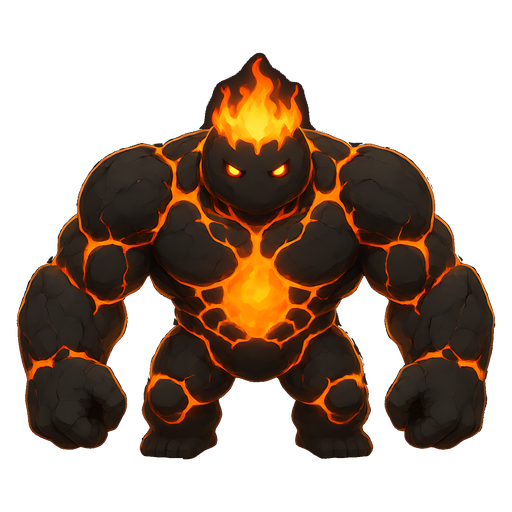
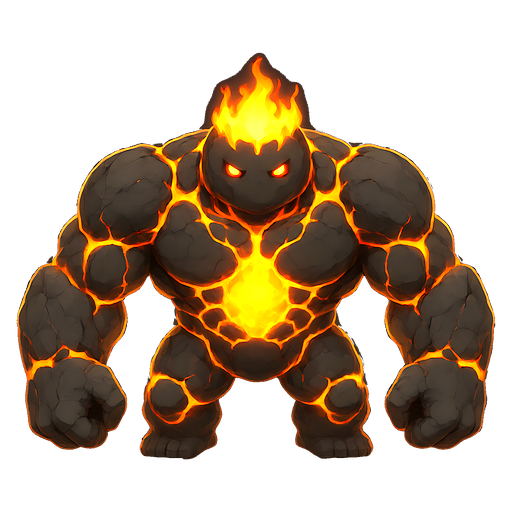
提亮熔岩巨像原图

diff --git a/game.js b/game.js
@@ -1149,7 +1149,7 @@
       : new THREE.MeshBasicMaterial({ color: 0x8a7b86 });
   }
   const magmaColossusTex = typeof THREE.TextureLoader === 'function'
-    ? new THREE.TextureLoader().load('assets/magma-colossus.png?v=20261117')
+    ? new THREE.TextureLoader().load('assets/magma-colossus.png?v=20261117-bright2')
     : spriteTexture(512, drawMagmaColossus);
   const BOSS_TEX = {
     rootcoil: spriteTexture(512, drawBoss),

diff --git a/index.html b/index.html
@@ -812,7 +812,7 @@
 </div>
 
 <script src="vendor/three.min.js?v=20261117"></script>
-<script src="game.js?v=20261117-boss-original"></script>
+<script src="game.js?v=20261117-boss-bright2"></script>
 <script src="start.js?v=20261117"></script>
 </body>
 </html>
